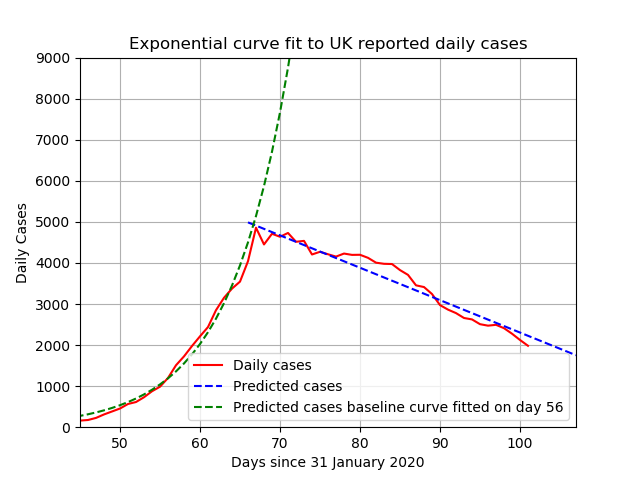
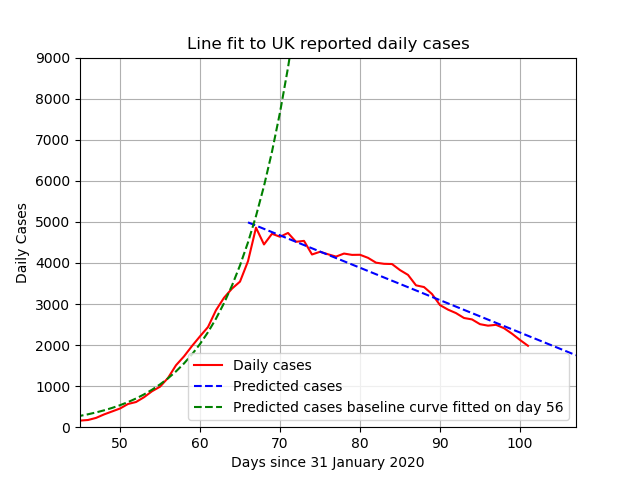
Daily run

Changed region(s): [[0.1875, 0.0625, 0.8125, 0.125]]

diff --git a/src/curvefit.py b/src/curvefit.py
@@ -170,15 +170,15 @@ def main():
                                                         ln_predicted_days)
     print(bl_cases_param)
     bl_cases = (bl_cases_param[0]*bl_cases_param[1]**np.array(predicted_days))
-    print("<h3>Exponential function coefficients for new cases</h3>",
+    print("<h3>Line coefficients for new cases</h3>",
           file=f_out)
     print(cases_param, file=f_out)
     print("<h4>Covariance of coefficients</h4>", file=f_out)
     print(cases_param_cov, file=f_out)
-    print("Baline parameters:", bl_cases_param)
+    print("Baseline parameters:", bl_cases_param)
 
     # Plot results
-    plot_title = "Exponential curve fit to UK reported daily cases"
+    plot_title = "Line fit to UK reported daily cases"
     plt.title(plot_title)
     plt.plot(days, daily_cases, '-', color ='red', label ="Daily cases")
     plt.plot(ln_predicted_days, cases_ans, '--', color ='blue',
@@ -240,7 +240,7 @@ def main():
 
 
     bl_deaths=(bl_deaths_param[0]*bl_deaths_param[1]**np.array(predicted_days))
-    print("<h3>Exponential function coefficients for daily deaths</h3>",
+    print("<h3>Fit coefficients for daily deaths</h3>",
           file=f_out)
     print(deaths_param,file=f_out)
     print("<h4>Covariance of coefficients</h4>", file=f_out)

diff --git a/README.md b/README.md
@@ -34,12 +34,12 @@ It is the combination that produces the lowest error.
 
 Output Details
 --------------
-<h3>Exponential function coefficients for new cases</h3>
+<h3>Line coefficients for new cases</h3>
 [10194.81289805   -78.90030021]
 <h4>Covariance of coefficients</h4>
 [[ 1.22487929e+05 -1.44456233e+03]
  [-1.44456233e+03  1.73001477e+01]]
-<h3>Exponential function coefficients for daily deaths</h3>
+<h3>Fit coefficients for daily deaths</h3>
 [1747.54155525  -12.48585503]
 <h4>Covariance of coefficients</h4>
 [[ 2.00671156e+03 -2.28542880e+01]
@@ -48,4 +48,4 @@ Output Details
 4 18%
 <h4>Average Error</h4>
 34.75
-<br /><br />Last updated on 2020-05-11 09:54:56.307996
+<br /><br />Last updated on 2020-05-11 09:57:09.567980

diff --git a/out/fit.md b/out/fit.md
@@ -1,9 +1,9 @@
-<h3>Exponential function coefficients for new cases</h3>
+<h3>Line coefficients for new cases</h3>
 [10194.81289805   -78.90030021]
 <h4>Covariance of coefficients</h4>
 [[ 1.22487929e+05 -1.44456233e+03]
  [-1.44456233e+03  1.73001477e+01]]
-<h3>Exponential function coefficients for daily deaths</h3>
+<h3>Fit coefficients for daily deaths</h3>
 [1747.54155525  -12.48585503]
 <h4>Covariance of coefficients</h4>
 [[ 2.00671156e+03 -2.28542880e+01]
@@ -12,4 +12,4 @@
 4 18%
 <h4>Average Error</h4>
 34.75
-<br /><br />Last updated on 2020-05-11 09:54:56.307996
+<br /><br />Last updated on 2020-05-11 09:57:09.567980
